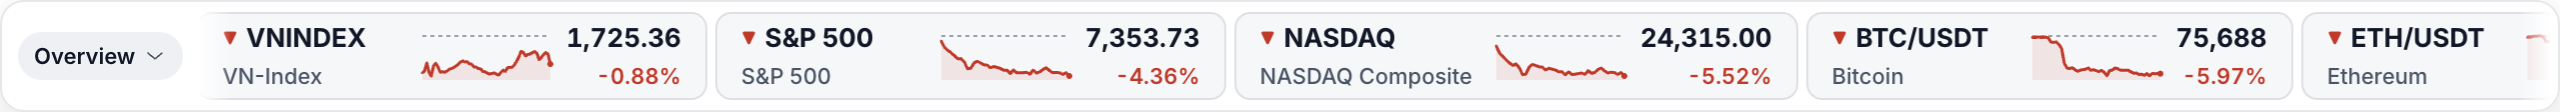
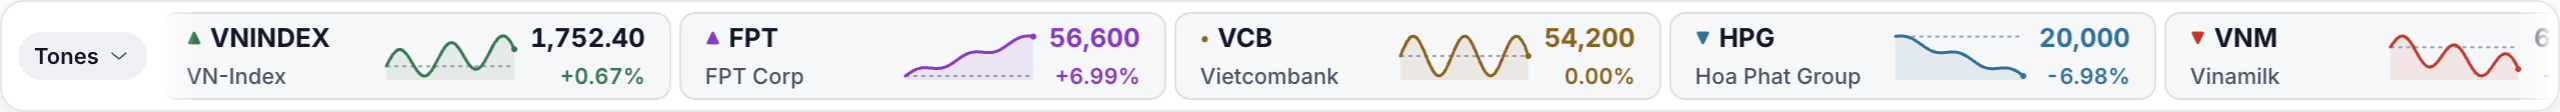
feat: sparkline uses the item's price tone color
Synced from main repo f3af263 (npm run sync:deploy: 10 files written, 0 removed). Verified in the main repo: npm run check, unit 358 passed, e2e 28 passed, 1 skipped (live).

diff --git a/tests/e2e/bar.spec.ts b/tests/e2e/bar.spec.ts
@@ -6,6 +6,7 @@ import {
   DEFAULT_OVERVIEW,
   isolateFromRealMouse,
   launch,
+  pinQuotes,
   removeDir,
   tempDir,
   type Launched
@@ -357,4 +358,67 @@ test('each item is a separate tile without divider lines; the marquee moves on e
   )
   expect(frames).toBeGreaterThan(40)
   expect(moves / frames).toBeGreaterThan(0.9)
+})
+test('sparkline line, area and dot use the price tone color in both themes (fake quotes)', async () => {
+  const { app, bar } = ctx
+  // FAKE DATA: [id, ref, price, ceiling, floor] -> expected tone.
+  const rows = [
+    { id: 'vn:FPT', ref: 52_900, price: 56_600, ceiling: 56_600, floor: 49_200, tone: 'ceiling' },
+    { id: 'vn:VCB', ref: 54_200, price: 54_200, ceiling: 57_900, floor: 50_500, tone: 'ref' },
+    { id: 'vn:HPG', ref: 21_500, price: 20_000, ceiling: 23_000, floor: 20_000, tone: 'floor' },
+    { id: 'vn:VNM', ref: 60_000, price: 66_000, tone: 'up' }, // no ceiling/floor: falls back to up
+    { id: 'vn:VNINDEX', ref: 1740, price: 1720, tone: 'down' },
+    { id: 'us:AAPL', ref: 200, price: 200, tone: 'flat' }
+  ]
+  await bar.evaluate(async (ids) => {
+    const { settings } = await window.ticker.getState()
+    const r = await window.ticker.command({ type: 'createWatchlist', name: 'Tones' })
+    if (!r.ok) throw new Error('createWatchlist failed')
+    const list = r.settings.watchlists.find((w) => w.name === 'Tones')!
+    for (const id of ids) {
+      const instrument = settings.instruments[id as keyof typeof settings.instruments]!
+      await window.ticker.command({ type: 'addItem', watchlistId: list.id, instrument })
+    }
+    await window.ticker.command({ type: 'setActiveWatchlist', id: list.id })
+  }, rows.map((r) => r.id))
+  await pinQuotes(app, rows)
+  for (const theme of ['dark', 'light'] as const) {
+    expect((await bar.evaluate((t) => window.ticker.command({ type: 'setTheme', theme: t }), theme)).ok).toBe(true)
+    await expect(bar.locator('html')).toHaveAttribute('data-theme', theme)
+    for (const row of rows) {
+      const item = bar.locator(`[data-copy="0"] [data-testid="ticker-item"][data-id="${row.id}"]`)
+      await expect(item.getByTestId('glyph')).toHaveAttribute('data-tone', row.tone)
+      await expect(item.getByTestId('sparkline')).toHaveAttribute('data-tone', row.tone)
+      await expect(item.getByTestId('price')).not.toHaveAttribute('data-flash')
+      const c = await item.evaluate((el) => {
+        const style = (id: string) => getComputedStyle(el.querySelector(`[data-testid="${id}"]`)!)
+        const root = getComputedStyle(document.documentElement)
+        const probe = document.createElement('span')
+        probe.style.color = root.getPropertyValue('--text-3')
+        document.body.append(probe)
+        const text3 = getComputedStyle(probe).color
+        probe.remove()
+        return {
+          line: style('spark-line').stroke,
+          area: style('spark-area').fill,
+          areaOpacity: style('spark-area').fillOpacity,
+          dot: style('spark-dot').fill,
+          refLine: style('ref-line').stroke,
+          text3,
+          pct: style('pct').color,
+          glyph: style('glyph').color,
+          price: style('price').color
+        }
+      })
+      expect(c.line, `${theme} ${row.id}`).toBe(c.pct)
+      expect(c.line).toBe(c.glyph)
+      expect(c.area).toBe(c.line)
+      expect(c.dot).toBe(c.line)
+      expect(Number(c.areaOpacity)).toBeLessThanOrEqual(0.12)
+      // The price number is tinted only at VN ref/ceiling/floor; there it matches the chart too.
+      if (row.tone === 'ref' || row.tone === 'ceiling' || row.tone === 'floor') expect(c.price).toBe(c.line)
+      // The dashed reference line keeps its neutral color.
+      expect(c.refLine).toBe(c.text3)
+    }
+  }
 })

diff --git a/tests/unit/sparklineTone.test.ts b/tests/unit/sparklineTone.test.ts
@@ -1,0 +1,82 @@
+import fs from 'node:fs'
+import { join } from 'node:path'
+import { describe, expect, it } from 'vitest'
+import { itemTone, type PriceTone } from '../../src/shared/priceTone'
+import type { Market, Quote } from '../../src/shared/types'
+
+const BAR = join(__dirname, '../../src/renderer/bar')
+
+/** Top-level `.class { color: X; }` rules of a CSS module (rules inside @media are indented). */
+function colorRules(file: string): Record<string, string> {
+  const css = fs.readFileSync(join(BAR, file), 'utf8')
+  const rules: Record<string, string> = {}
+  for (const m of css.matchAll(/^\.(\w+)\s*\{\s*color:\s*([^;]+);/gm)) rules[m[1]!] ??= m[2]!.trim()
+  return rules
+}
+
+const SPARK = colorRules('Sparkline.module.css')
+const ITEM = colorRules('TickerItem.module.css') // glyph and % change
+const PRICE = colorRules('PriceText.module.css')
+
+const TOKEN: Record<PriceTone, string> = {
+  up: 'var(--up)',
+  down: 'var(--down)',
+  flat: 'var(--flat)',
+  ref: 'var(--ref)',
+  ceiling: 'var(--ceiling)',
+  floor: 'var(--floor)'
+}
+
+// FPT on 2026-11-06: reference 52,900, ceiling 56,600, floor 49,200.
+const quote = (price: number, extra: Partial<Quote> = {}): Quote => ({
+  id: 'vn:FPT',
+  price,
+  refPrice: 52_900,
+  change: price - (extra.refPrice ?? 52_900),
+  changePct: 0,
+  state: 'live',
+  source: 'fake',
+  updatedAt: 0,
+  ceiling: 56_600,
+  floor: 49_200,
+  ...extra
+})
+
+const CASES: [string, Quote | undefined, Market, PriceTone][] = [
+  ['VN stock at the reference', quote(52_900), 'vn', 'ref'],
+  ['VN stock at the ceiling', quote(56_600), 'vn', 'ceiling'],
+  ['VN stock at the floor', quote(49_200), 'vn', 'floor'],
+  ['VN stock up', quote(53_000), 'vn', 'up'],
+  ['VN stock down', quote(52_800), 'vn', 'down'],
+  ['VN stock without ceiling, at the old ceiling', quote(56_600, { ceiling: undefined, floor: undefined }), 'vn', 'up'],
+  ['VN stock without floor, at the old floor', quote(49_200, { ceiling: undefined, floor: undefined }), 'vn', 'down'],
+  ['VN index unchanged', quote(1740, { id: 'vn:VNINDEX', refPrice: 1740, ceiling: undefined, floor: undefined }), 'vn', 'ref'],
+  ['US stock unchanged', quote(100, { id: 'us:AAPL', refPrice: 100 }), 'us', 'flat'],
+  ['crypto up', quote(101, { id: 'crypto:BTCUSDT', refPrice: 100 }), 'crypto', 'up'],
+  ['crypto down', quote(99, { id: 'crypto:BTCUSDT', refPrice: 100 }), 'crypto', 'down'],
+  ['loading', quote(56_600, { state: 'loading' }), 'vn', 'flat'],
+  ['error', quote(56_600, { state: 'error' }), 'vn', 'flat'],
+  ['no quote yet', undefined, 'vn', 'flat']
+]
+
+describe('sparkline color = price tone', () => {
+  it.each(CASES)('%s', (_name, q, market, expected) => {
+    const tone = itemTone(q, market)
+    expect(tone).toBe(expected)
+    expect(SPARK[tone]).toBe(TOKEN[tone])
+    // Same color as the glyph and % change of the item...
+    expect(SPARK[tone]).toBe(ITEM[tone])
+    // ...and as the price itself where the price is tinted (VN ref/ceiling/floor).
+    if (tone === 'ref' || tone === 'ceiling' || tone === 'floor') expect(SPARK[tone]).toBe(PRICE[tone])
+  })
+
+  it('the dashed reference line stays neutral', () => {
+    const css = fs.readFileSync(join(BAR, 'Sparkline.module.css'), 'utf8')
+    expect(/\.refLine\s*\{[^}]*stroke:\s*var\(--text-3\)/.exec(css)).not.toBeNull()
+  })
+
+  it('has no color transition or animation (a tone change is an instant switch)', () => {
+    const css = fs.readFileSync(join(BAR, 'Sparkline.module.css'), 'utf8')
+    expect(css).not.toMatch(/transition|animation|@keyframes/)
+  })
+})

diff --git a/src/renderer/bar/TickerItem.tsx b/src/renderer/bar/TickerItem.tsx
@@ -1,10 +1,10 @@
 import { memo } from 'react'
 import { directionGlyph, formatPct, formatPrice, formatTime } from '../../shared/format'
 import { t, type MessageKey } from '../../shared/i18n'
-import { priceTone, type PriceTone } from '../../shared/priceTone'
+import { itemTone } from '../../shared/priceTone'
 import type { Instrument, InstrumentId, Language, Quote, QuoteSource, Series } from '../../shared/types'
 import { PriceText } from './PriceText'
-import { Sparkline, type Direction } from './Sparkline'
+import { Sparkline } from './Sparkline'
 import styles from './TickerItem.module.css'
 
 export interface ItemModel {
@@ -29,19 +29,6 @@ const STATE_NOTE: Partial<Record<Quote['state'], MessageKey>> = {
   error: 'bar.error'
 }
 
-function tone(item: ItemModel): PriceTone {
-  const q = item.quote
-  if (!q || q.state === 'loading' || q.state === 'error') return 'flat'
-  return priceTone(q, item.instrument.market)
-}
-
-/** The sparkline keeps the plain direction: purple/cyan/yellow apply to the glyph and numbers only. */
-function direction(q: Quote | undefined, tn: PriceTone): Direction {
-  if (tn === 'up' || tn === 'down' || tn === 'flat') return tn
-  if (!q || q.change === 0) return 'flat'
-  return q.change > 0 ? 'up' : 'down'
-}
-
 /** "FPT · Vietcap · 10:31:05", plus the state note when not live. */
 function tooltip(item: ItemModel, lang: Language): string {
   const { instrument, quote } = item
@@ -60,8 +47,8 @@ function TickerItemImpl({ item, lang }: { item: ItemModel; lang: Language }): Re
   const state = quote?.state ?? 'loading'
   const loading = state === 'loading'
   const error = state === 'error'
-  const tn = tone(item)
-  const dir = direction(quote, tn)
+  // One tone for the glyph, price, % and sparkline.
+  const tn = itemTone(quote, instrument.market)
   const name = (lang === 'vi' ? instrument.nameVi : instrument.nameEn) || instrument.nameEn || instrument.symbol
   const className = [styles.item, state === 'stale' && styles.stale].filter(Boolean).join(' ')
 
@@ -87,7 +74,7 @@ function TickerItemImpl({ item, lang }: { item: ItemModel; lang: Language }): Re
         <Sparkline
           points={series?.points ?? []}
           refPrice={series?.refPrice ?? quote?.refPrice ?? 0}
-          direction={dir}
+          tone={tn}
         />
       )}
       <div className={styles.right}>

diff --git a/tests/e2e/helpers.ts b/tests/e2e/helpers.ts
@@ -83,4 +83,43 @@ export function barWindow(app: ElectronApplication): Promise<BarWindowInfo> {
   })
 }
 
+/** Made-up quote for `pinQuotes`: price against ref, optional VN ceiling/floor. */
+export interface PinnedQuote {
+  id: string
+  ref: number
+  price: number
+  ceiling?: number
+  floor?: number
+}
+
+/**
+ * FAKE DATA. Sends made-up quotes and series for `rows` to the bar, and rewrites every later
+ * market message for those ids so the fake provider's ticks never replace them.
+ */
+export async function pinQuotes(app: ElectronApplication, rows: PinnedQuote[]): Promise<void> {
+  const diff: { quotes: Record<string, unknown>; series: Record<string, unknown> } = { quotes: {}, series: {} }
+  for (const { id, ref, price, ceiling, floor } of rows) {
+    const change = price - ref
+    diff.quotes[id] = { id, price, refPrice: ref, change, changePct: (change / ref) * 100, state: 'live', source: 'fake', updatedAt: Date.now(), ceiling, floor }
+    const points = Array.from({ length: 40 }, (_, i) => ref + ((price - ref) * i) / 39 + Math.sin(i / 3) * ref * 0.004)
+    points[39] = price
+    diff.series[id] = { id, points, refPrice: ref, updatedAt: Date.now() }
+  }
+  await app.evaluate(({ BrowserWindow }, d) => {
+    const w = BrowserWindow.getAllWindows().find((win) => win.webContents.getURL().includes('bar.html'))!
+    const wc = w.webContents
+    const send = wc.send.bind(wc)
+    wc.send = (channel: string, msg: { quotes?: Record<string, unknown>; series?: Record<string, unknown> }, ...rest: unknown[]) => {
+      if ((channel === 'market:update' || channel === 'market:snapshot') && msg?.quotes) {
+        for (const id of Object.keys(d.quotes)) {
+          if (id in msg.quotes) msg.quotes[id] = d.quotes[id]
+          if (msg.series && id in msg.series) msg.series[id] = d.series[id]
+        }
+      }
+      return send(channel, msg, ...rest)
+    }
+    send('market:update', d)
+  }, diff)
+}
+
 export const DEFAULT_OVERVIEW = ['VNINDEX', 'S&P 500', 'NASDAQ', 'BTC/USDT', 'ETH/USDT', 'FPT', 'AAPL', 'NVDA']

diff --git a/src/renderer/bar/Sparkline.tsx b/src/renderer/bar/Sparkline.tsx
@@ -1,8 +1,7 @@
 import { useMemo } from 'react'
+import type { PriceTone } from '../../shared/priceTone'
 import { downsample, sparklinePath } from './geometry'
 import styles from './Sparkline.module.css'
-
-export type Direction = 'up' | 'down' | 'flat'
 
 const W = 64
 const H = 24
@@ -10,26 +9,28 @@ const H = 24
 interface SparklineProps {
   points: readonly number[]
   refPrice: number
-  direction: Direction
+  /** The item's price tone; line, area and end dot use its color (the reference line stays neutral). */
+  tone: PriceTone
 }
 
-export function Sparkline({ points, refPrice, direction }: SparklineProps): React.JSX.Element {
+export function Sparkline({ points, refPrice, tone }: SparklineProps): React.JSX.Element {
   const geo = useMemo(() => sparklinePath(downsample(points), refPrice, W, H), [points, refPrice])
   return (
     <svg
-      className={`${styles.spark} ${styles[direction]}`}
+      className={`${styles.spark} ${styles[tone]}`}
       width={W}
       height={H}
       viewBox={`0 0 ${W} ${H}`}
       preserveAspectRatio="none"
       aria-hidden="true"
       data-testid="sparkline"
+      data-tone={tone}
     >
       {geo && (
         <>
-          <path className={styles.area} d={geo.area} />
+          <path className={styles.area} d={geo.area} data-testid="spark-area" />
           <line
-            className={styles.ref}
+            className={styles.refLine}
             x1={0}
             x2={W}
             y1={geo.refY}
@@ -37,8 +38,8 @@ export function Sparkline({ points, refPrice, direction }: SparklineProps): Reac
             strokeDasharray="2 2"
             data-testid="ref-line"
           />
-          <path className={styles.line} d={geo.line} />
-          <circle className={styles.dot} cx={geo.lastX} cy={geo.lastY} r={1.5} />
+          <path className={styles.line} d={geo.line} data-testid="spark-line" />
+          <circle className={styles.dot} cx={geo.lastX} cy={geo.lastY} r={1.5} data-testid="spark-dot" />
         </>
       )}
     </svg>

diff --git a/src/renderer/bar/Sparkline.module.css b/src/renderer/bar/Sparkline.module.css
@@ -16,6 +16,19 @@
   color: var(--flat);
 }
 
+/* VN: the same tones as the glyph, price and % (TickerItem, PriceText); a tone change is an instant color switch. */
+.ref {
+  color: var(--ref);
+}
+
+.ceiling {
+  color: var(--ceiling);
+}
+
+.floor {
+  color: var(--floor);
+}
+
 .area {
   fill: currentColor;
   fill-opacity: var(--spark-fill-alpha);
@@ -31,7 +44,8 @@
   vector-effect: non-scaling-stroke;
 }
 
-.ref {
+/* The dashed reference line stays neutral whatever the tone. */
+.refLine {
   stroke: var(--text-3);
   stroke-width: 1px;
   stroke-dasharray: 2 2;

diff --git a/src/shared/priceTone.ts b/src/shared/priceTone.ts
@@ -19,3 +19,12 @@ export function priceTone(q: Pick<Quote, 'price' | 'refPrice' | 'change' | 'ceil
   if (q.change < 0) return 'down'
   return 'flat'
 }
+
+/**
+ * Tone of a bar item: `flat` while loading or in error, otherwise `priceTone`. The glyph, the
+ * price, the % change and the sparkline all take their color from this one value.
+ */
+export function itemTone(q: Quote | undefined, market: Market): PriceTone {
+  if (!q || q.state === 'loading' || q.state === 'error') return 'flat'
+  return priceTone(q, market)
+}

diff --git a/README.md b/README.md
@@ -9,6 +9,7 @@ TopTick is a small desktop bar that scrolls live prices for Vietnamese stocks an
 - Always on top: the bar floats above your other windows.
 - Each item shows a ▲/▼ glyph, the symbol and name, a sparkline with a dashed reference line, the last price and the percent change.
 - Vietnamese stocks use the local board colors: yellow at the reference price, purple at the ceiling, cyan at the floor.
+- The sparkline uses the same color as the item's price and percent change.
 - More items than fit on the bar scroll sideways in a loop. Hovering pauses the scroll.
 - Watchlists: add, reorder, hide and show symbols, and switch lists from the bar.
 - Drag the bar to move it and drag its left or right edge to change its width. **Lock position** turns both off.
@@ -24,7 +25,7 @@ TopTick is a small desktop bar that scrolls live prices for Vietnamese stocks an
 |---|---|
 | ![Settings window, Watchlists tab, dark theme](docs/screenshots/settings-watchlists-dark.png) | ![Settings window, Preferences tab, light theme](docs/screenshots/settings-preferences-light.png) |
 
-The screenshots show real data, captured after the US and Vietnamese markets had closed.
+The two bar screenshots use made-up data, so that one bar shows the ceiling, reference, floor, up and down colors. The Settings screenshots show real data, captured after the US and Vietnamese markets had closed.
 
 ## Platforms
 
